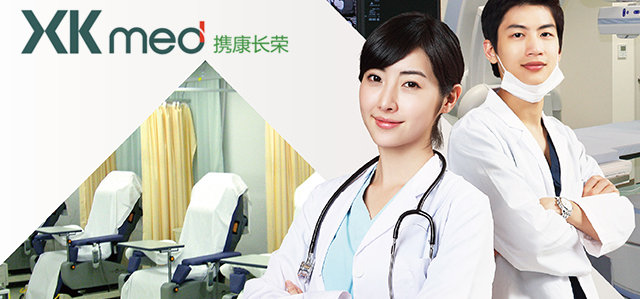
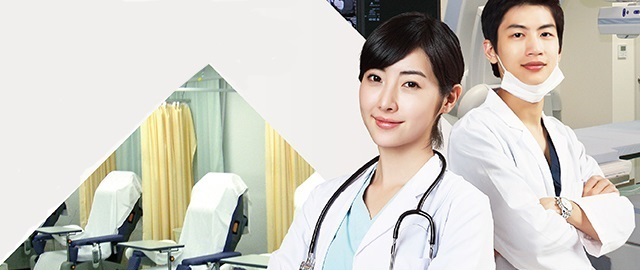
10-10

diff --git a/WebContent/css/myPublic.css b/WebContent/css/myPublic.css
@@ -29,6 +29,84 @@ li {
 	background-image: url(../images/banner.jpg);
 }
 
+.headse {
+	width: 100%;
+	height: 60px;
+	background-color: #4390b9;
+	background-image: url(../images/banner.jpg);
+}
+
+
+
+
+
+
+
+
+
+
+
+
+
+
+
+
+.headse .headL {
+	width: 440px;
+	text-align: center;
+	float: left;
+	display: inline-block;
+	color: #FFF;
+	margin-top: 18px;
+}
+
+.headse .headL img.headLogo {
+	padding-top: 28px;
+}
+
+.headse .headR {
+	width: 400px;
+	height: 100%;
+	display: inline-block;
+	float: right;
+	margin-right: 10px;
+	text-align:right;
+}
+
+.headse .headR  a {
+	font-size: 14px;
+	padding-top: 12px;
+	display: inline-block;
+	color: white;
+	cursor: pointer;
+}
+
+
+
+
+
+
+
+
+
+
+
+
+
+
+
+
+
+
+
+
+
+
+
+
+
+
+
 .head .headL {
 	width: 440px;
 	text-align: center;
@@ -268,5 +346,9 @@ li {
 }
 /*left.css end*/
 .head .headL #headL {
+	font-size: 24px;
+}
+
+.headse .headL #headL {
 	font-size: 24px;
 }

diff --git a/WebContent/css/index.css b/WebContent/css/index.css
@@ -7,7 +7,7 @@
 .flex-caption { width:100%; padding:3px 0px; position: absolute; bottom: 3px;color: #fff;text-align: right;font-size: 14px;line-height: 22px;height:22px;}
 .flexslider {position: relative; clear:both;background: #fff;margin: 0; padding: 0 0 0;}
 .flexslider .slides > li {display: none; -webkit-backface-visibility: hidden;}
-.flexslider .slides img {width: 100%; display: block;}
+.flexslider .slides img {width: 100%;display: block;}
 .flex-pauseplay span {text-transform: capitalize;}
 
 /* Pause/Play */

diff --git a/WebContent/css/global.css b/WebContent/css/global.css
@@ -73,7 +73,7 @@ ul.headT li span a {display: block;font-size: 28px;height: 100%;width: 100%;}
 
 
 
-dl.ind_TuBiao{ width: 100%;display: inline-block;}
+dl.ind_TuBiao{ width: 103%;display: inline-block;}
 dl.ind_TuBiao dd{ width: 24.5%;display: inline-block;float: left;text-align: center;background: #fff;margin: 0 2px 2px 0;}
 dl.ind_TuBiao dd:nth-child(4n){margin: 0 0 2px 0;}
 dl.ind_TuBiao dd a{ width: 100%;display: inline-block;float: left;padding-bottom: 15px;}

diff --git a/WebContent/css/percss.css b/WebContent/css/percss.css
@@ -12,7 +12,7 @@
 .menu{
 	height: 40px;
 	font-size: 15px;
-	width: 484px;
+	width: 363px;
 	border-top-width: 1px;
 	border-right-width: 1px;
 	border-top-style: solid;

diff --git a/src/org/xmgreat/action/BackstageLoginAction.java b/src/org/xmgreat/action/BackstageLoginAction.java
@@ -15,6 +15,7 @@ import org.springframework.web.bind.annotation.RequestMapping;
 import org.springframework.web.bind.annotation.ResponseBody;
 import org.xmgreat.bean.ManagerBean;
 import org.xmgreat.bean.PermissionsInfBean;
+import org.xmgreat.bean.UserInfoBean;
 import org.xmgreat.biz.AdminBiz;
 import org.xmgreat.biz.BackLogBiz;
 
@@ -33,36 +34,50 @@ public class BackstageLoginAction
 	private BackLogBiz backLogBiz;
 	@Resource
 	private ManagerBean managerBean;
-    
+
 	@RequestMapping(value = "/login")
 	@ResponseBody
-	public void login(HttpServletRequest request,String mangerName,String password, String verification) throws IOException
+	public void login(HttpServletRequest request, String mangerName, String password, String verification)
+			throws IOException
 	{
-		System.out.println(mangerName+password+verification);
 		PrintWriter out = response.getWriter();
 		String tips;
 		HttpSession session = request.getSession();
 		String code = (String) session.getAttribute("keyCode");
-		managerBean=backLogBiz.checkBackLog(mangerName, password);
-		if(managerBean==null||!(code.equals(verification))) {
+		managerBean = backLogBiz.checkBackLog(mangerName, password);
+		if (managerBean == null || !(code.equals(verification)))
+		{
 			tips = "错误";
 			Gson gson = new Gson();
 			String str = gson.toJson(tips);
 			out.print(str);
 			out.close();
-		}else {
-			//通过角色查询动态菜单
-			int roleId=managerBean.getRoleId();
-			List<PermissionsInfBean> pibList=adminBiz.selectRoleInfo(roleId);
+		} else
+		{
+			// 通过角色查询动态菜单
+			int roleId = managerBean.getRoleId();
+			List<PermissionsInfBean> pibList = adminBiz.selectRoleInfo(roleId);
 			session.setAttribute("pibList", pibList);
 			session.setAttribute("admin", managerBean);
 		}
 
 	}
-	
-	@RequestMapping(value = "/index.action")
-	public String index(HttpServletRequest request,String mangerName,String password, String verification) throws IOException
+
+	@RequestMapping(value = "/indexs")
+	public String login(HttpServletRequest request)
 	{
+		HttpSession session = request.getSession();
+		session.invalidate();
+		return "backstage/login";
+	}
+
+	@RequestMapping(value = "/index.action")
+	public String index(HttpServletRequest request, String mangerName, String password, String verification)
+			throws IOException
+	{
+		
 		return "backstage/index";
 	}
+
+
 }

diff --git a/src/org/xmgreat/action/LoginAndRegAction.java b/src/org/xmgreat/action/LoginAndRegAction.java
@@ -173,5 +173,21 @@ public class LoginAndRegAction
 		userBiz.forGotPwd(Long.parseLong(phone), pass);
 		return "../ForGot3";
 	}
+	
+	//进入预约
+	@RequestMapping(value = "/gotoappo.action")
+	public String gotoappo(HttpServletRequest request)
+	{
+		return "user/appointment";
+	}
+	
+	
+	// 退出登入
+		@RequestMapping(value = "/backlog.action")
+		@ResponseBody
+		public void backlog(HttpServletRequest request)
+		{
+			session.invalidate();
+		}
 
 }
